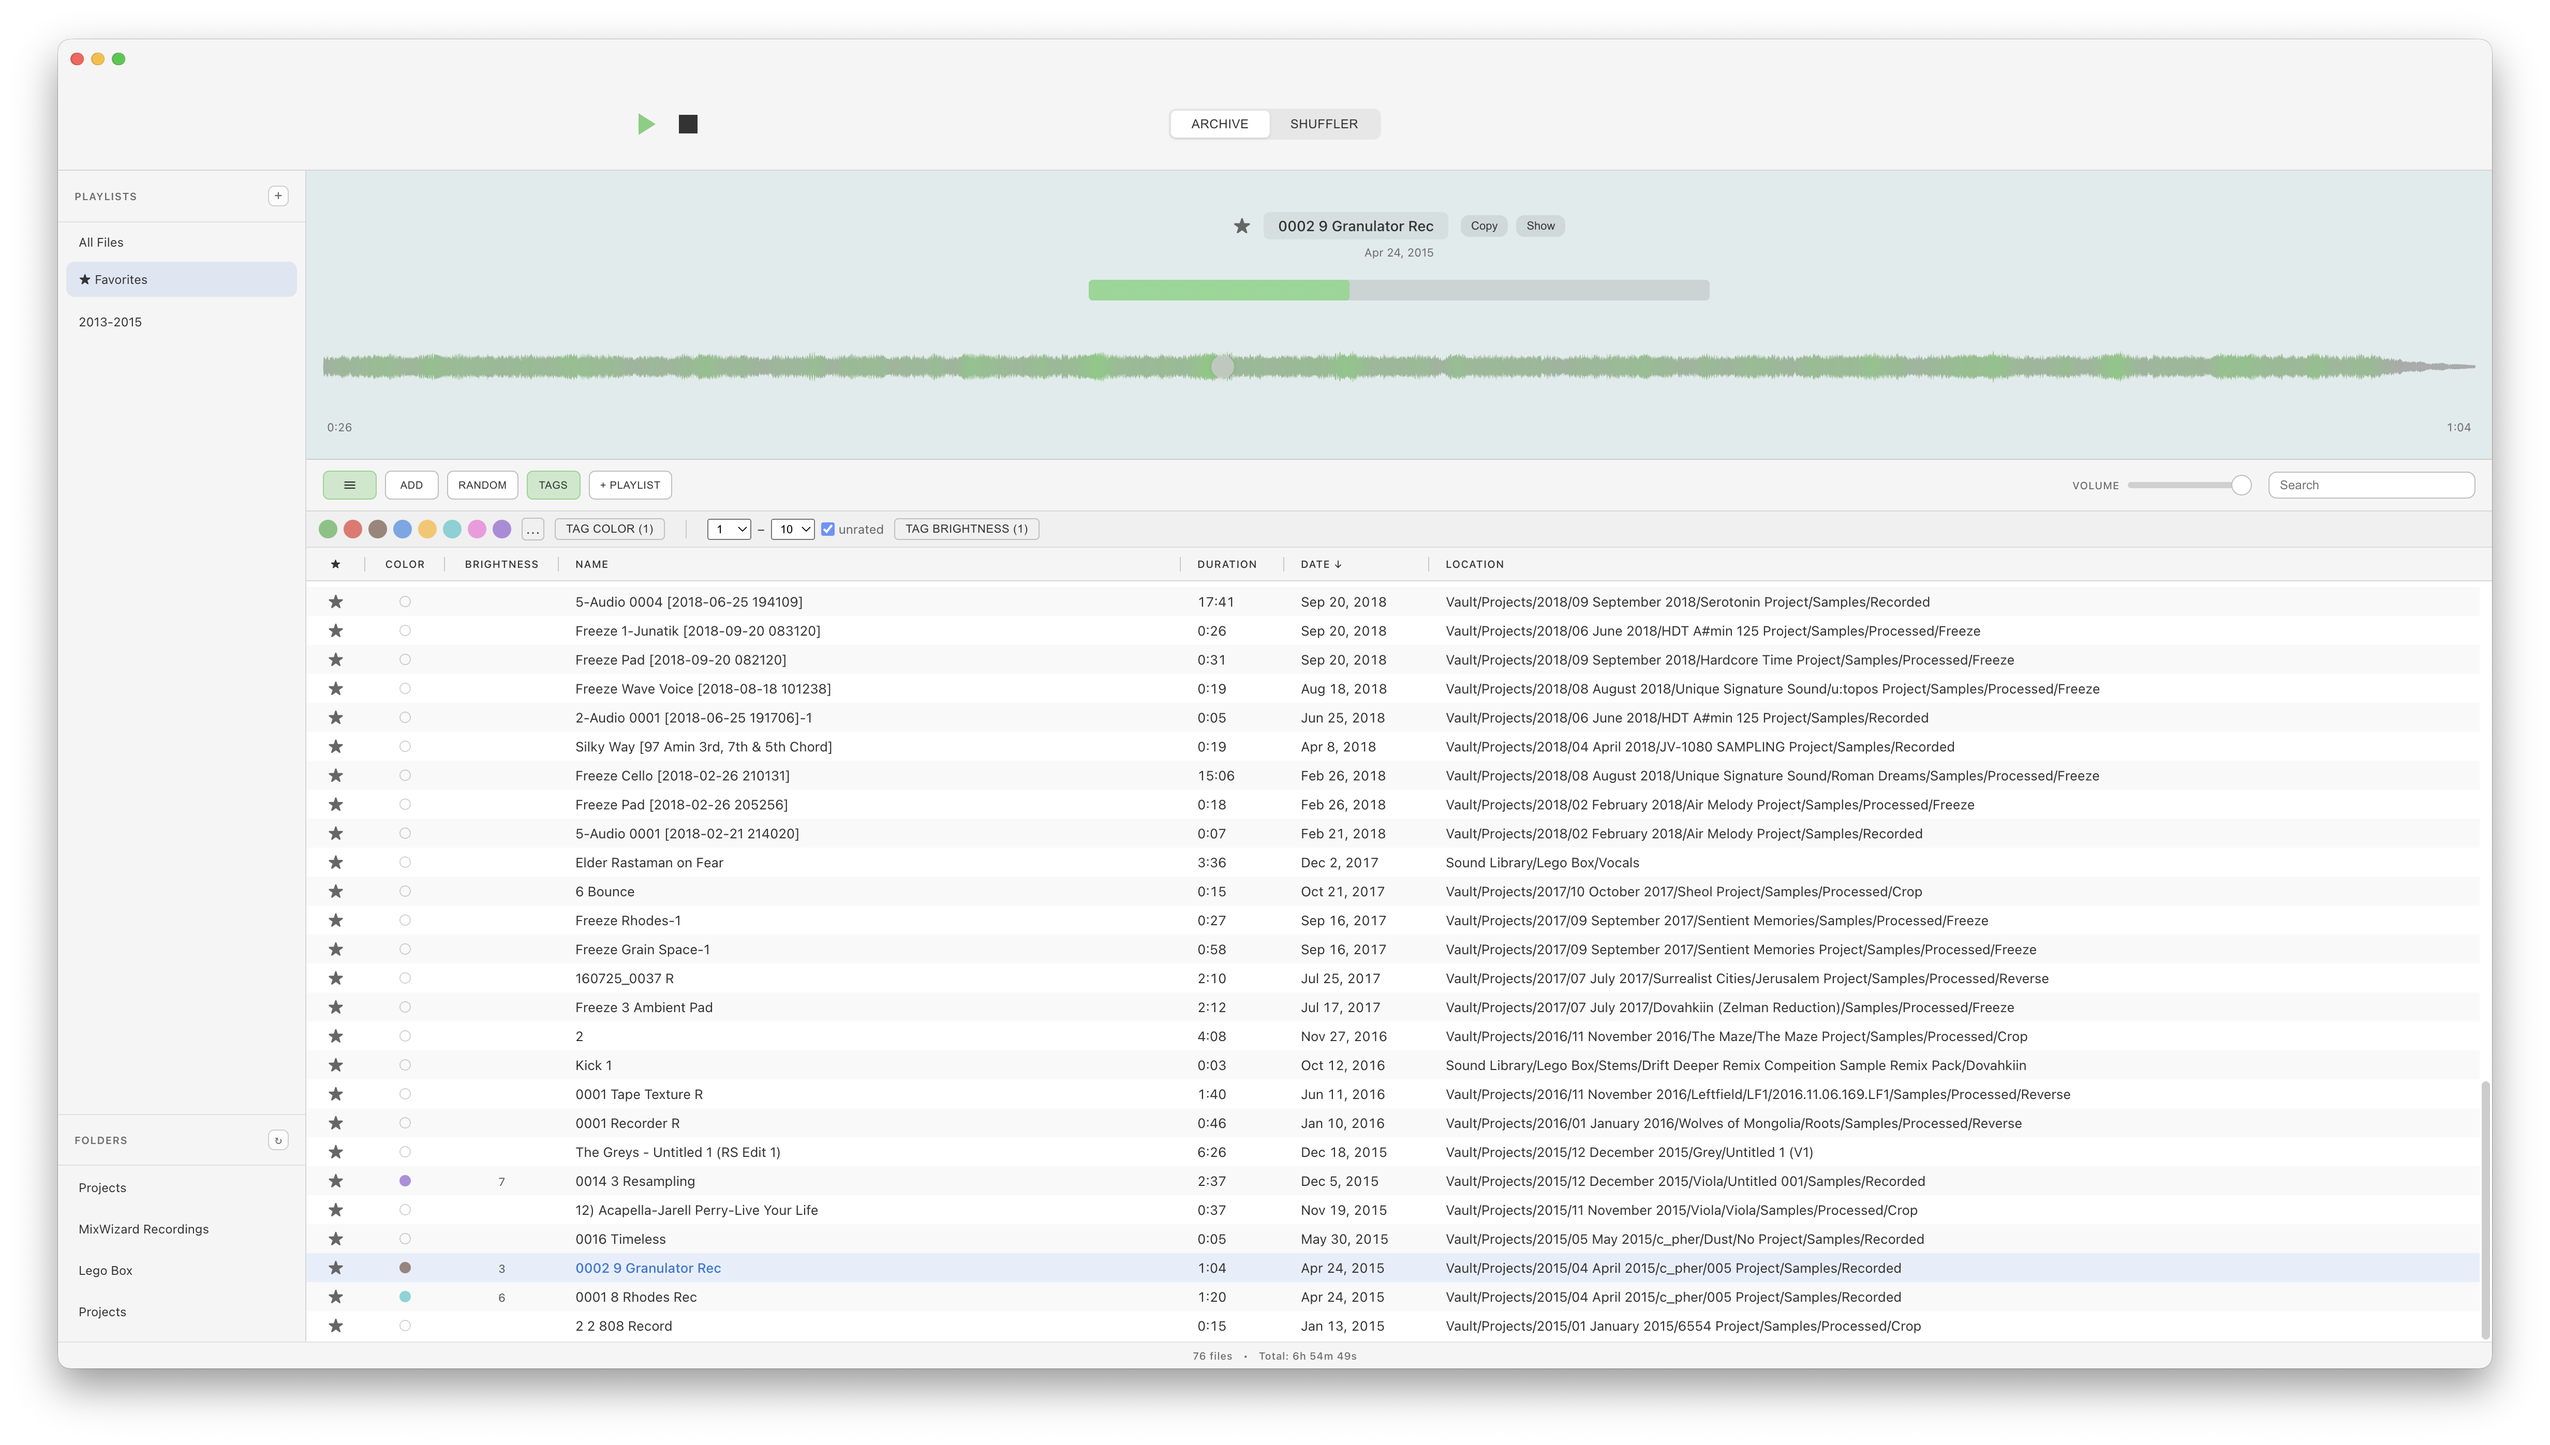
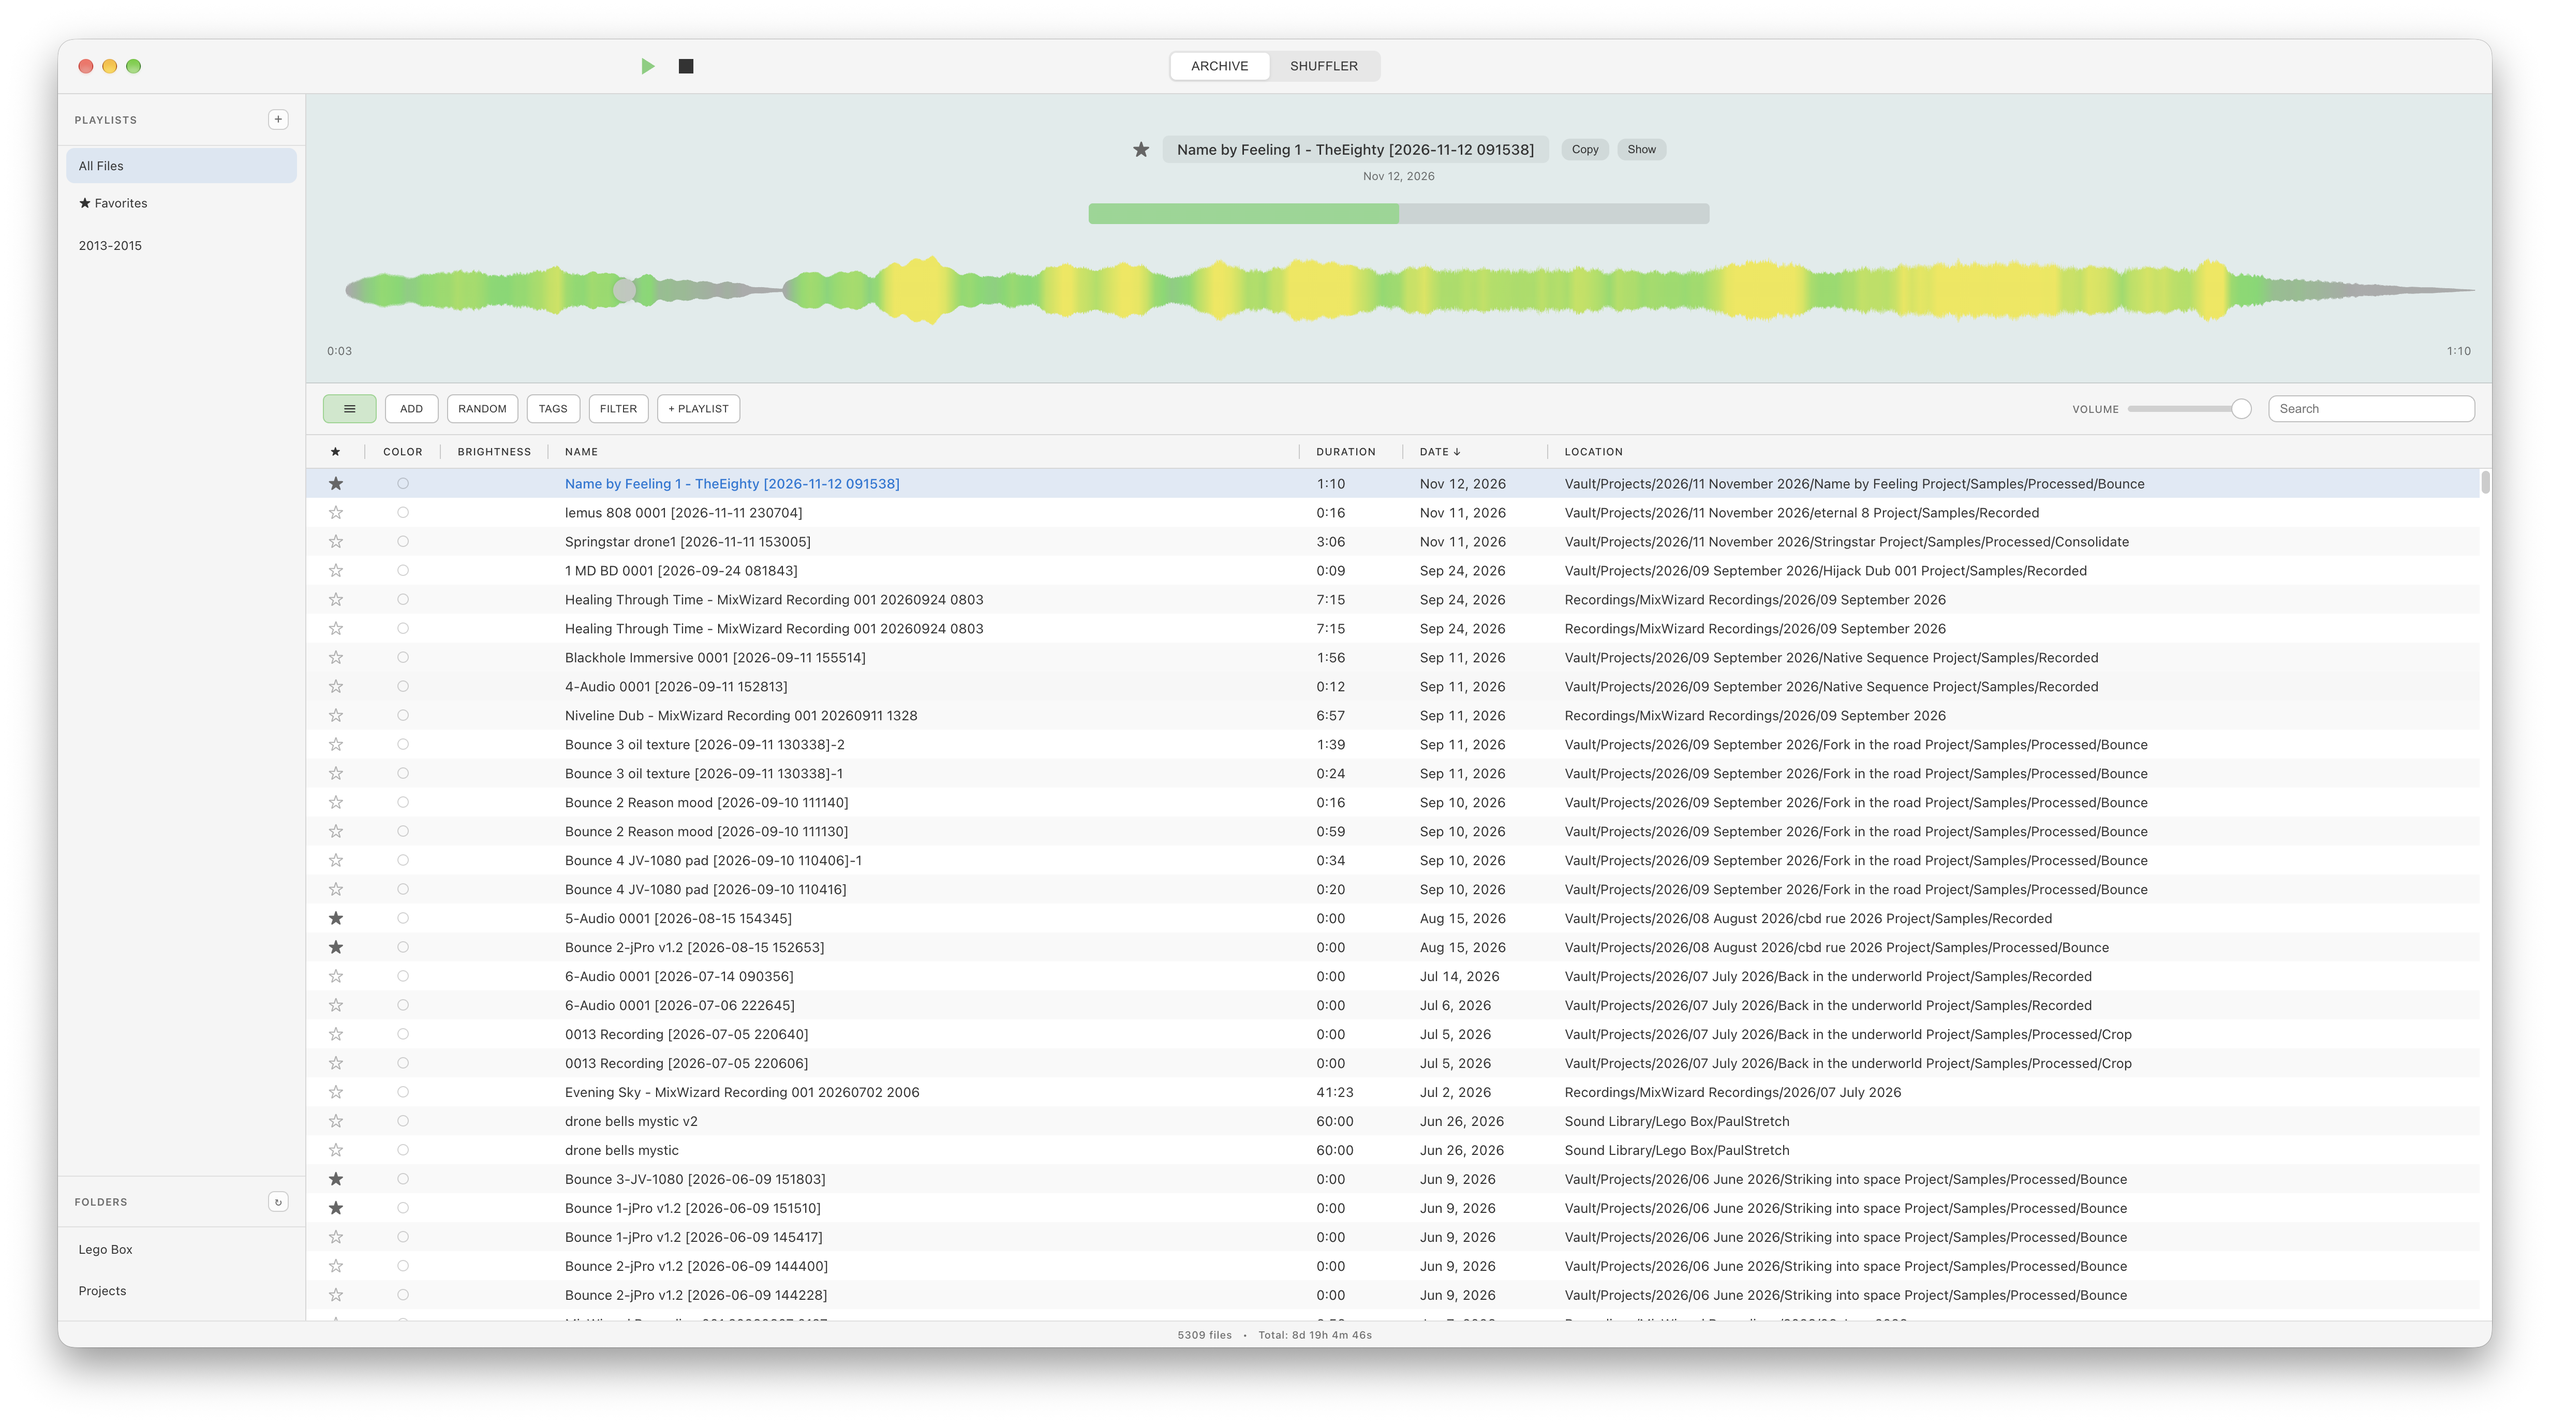
README: new screenshots, document current features, install and build steps

diff --git a/README.md b/README.md
@@ -13,48 +13,85 @@ I hope you enjoy it and that it sparks your creativity. Peace and one love.
 ## Features
 
 **Archive View**
-- Browse and organize your audio library
+- Browse and organize your audio library: WAV, AIFF, MP3, FLAC, M4A, AAC and OGG, including hi-res files (e.g. 96 kHz WAV)
 - Random playback mode
-- Persistent waveform caching with IndexedDB
+- Search, sort by any column, and see the file count and total duration of what's shown
+- Star favourites and gather sounds into playlists
 - Tag each sound with a color and rate its brightness from 1–10
-- Filter the archive by color, and edit the palette to taste
+- Filter the archive by color, brightness and duration, and edit the color palette to taste
+- Copy files to the clipboard to paste straight into Finder/Explorer or a DAW like Ableton, or reveal them in Finder
+- Persistent waveform caching with IndexedDB
 - Remember imported folders and rescan them — files moved between folders are matched by name + size so tags, colour, and brightness travel with them
 - Locate missing files via a native dialog without losing their metadata
+- Light and dark mode, following your system setting
 
 ![Archive View](assets/archive-view.png)
 ![Archive View - Dark Mode](assets/archive-view-dark.png)
 
 **Shuffler View**
-- Multi-track simultaneous playback
-- Individual track controls (Mute, Solo, Pause)
-- Volume sliders per track
-- Save and load track combinations
-- Looping tracks
+- Multi-track simultaneous playback of looping tracks
+- Individual track controls (Mute, Solo, Pause) and a volume slider per track
+- Reshuffle a single track to swap it for another random sound, or remove it
+- Save, load, rename and duplicate track combinations
+- Copy one track or all of them to the clipboard
 
 ![Shuffler View](assets/shuffler-view.png)
 ![Shuffler View - Dark Mode](assets/shuffler-view-dark.png)
 
-## Running the App
+## Installation
 
-### Operating System Compatibility
+Download the latest version from the [Releases page](https://github.com/raphaelshklarek/Active-Archive/releases/latest):
+- **macOS (Apple Silicon):** `Active.Archive-x.x.x-arm64.dmg`
+- **Windows (x64):** `Active.Archive.Setup.x.x.x.exe`
 
-Active Archive now works on both Apple Silicon Macs and windows computers.
+The app is not signed with a paid Apple or Microsoft certificate, so your system will warn you the first time:
+- **macOS:** if it says the app can't be opened, go to **System Settings → Privacy & Security** and click **Open Anyway**.
+- **Windows:** in the SmartScreen dialog, click **More info → Run anyway**.
+
+## Using the App
 
 ### Adding Files
 1. Click the **ADD** button in Archive view
 2. Select audio files or folders
 3. Files are automatically analyzed and cached
 
+Imported folders appear under **Folders** in the sidebar; use the rescan button to pick up new files.
+
 ### Playing Audio
 - **Single file**: Click any file in the table
-- **Random mode**: Click the **RANDOM** button to play files randomly
+- **Random mode**: Click the **RANDOM** button to play files randomly (respecting the current playlist and filters)
+
+### Tags, Filters and Playlists
+- **TAGS** shows the colour and brightness filters and lets you tag all selected files at once; click a file's colour or brightness cell to set it individually
+- **FILTER** narrows the archive to a duration range
+- **+ PLAYLIST** creates a playlist; star a file to add it to **Favorites**
 
 ### Shuffler Mode
 1. Click **GENERATE** to generate 3 random tracks
-2. Use **MUTE**, **SOLO**, **PAUSE** to control individual tracks
-3. Adjust volume with the slider
+2. Use **MUTE**, **SOLO**, **PAUSE** to control individual tracks, and adjust each track's volume with its slider
+3. Click **RESHUFFLE** on a track to replace it with another random sound
 4. Click **SAVE COMBINATION** to save the current combination
-5. Load combinations from the sidebar
+5. Load combinations from the sidebar; right-click one to rename, duplicate or delete it
+
+### Keyboard Shortcuts
+| Key | Action |
+| --- | --- |
+| Space | Play / pause |
+| Esc | Stop |
+| Cmd/Ctrl + F | Search |
+| Cmd/Ctrl + A | Select all files |
+| Delete / Backspace | Delete selected files from the archive |
+
+## Building from Source
+
+Requires Node.js. Building the Mac app needs Xcode 26+ with its first-launch components installed (`sudo xcodebuild -runFirstLaunch`) for the Icon Composer icon.
+
+```bash
+npm install
+npm run dev        # run in development
+npm run build:mac  # build the macOS app into release/mac
+npm run build:win  # build the Windows installer into release/win
+```
 
 ## License
 
